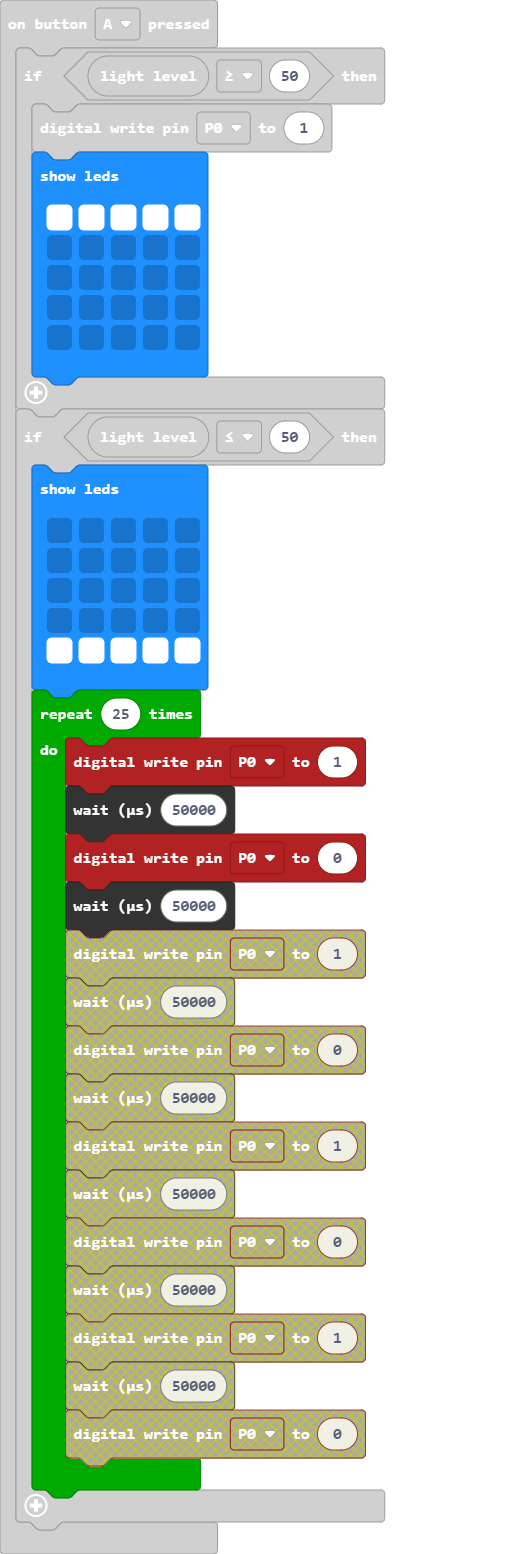
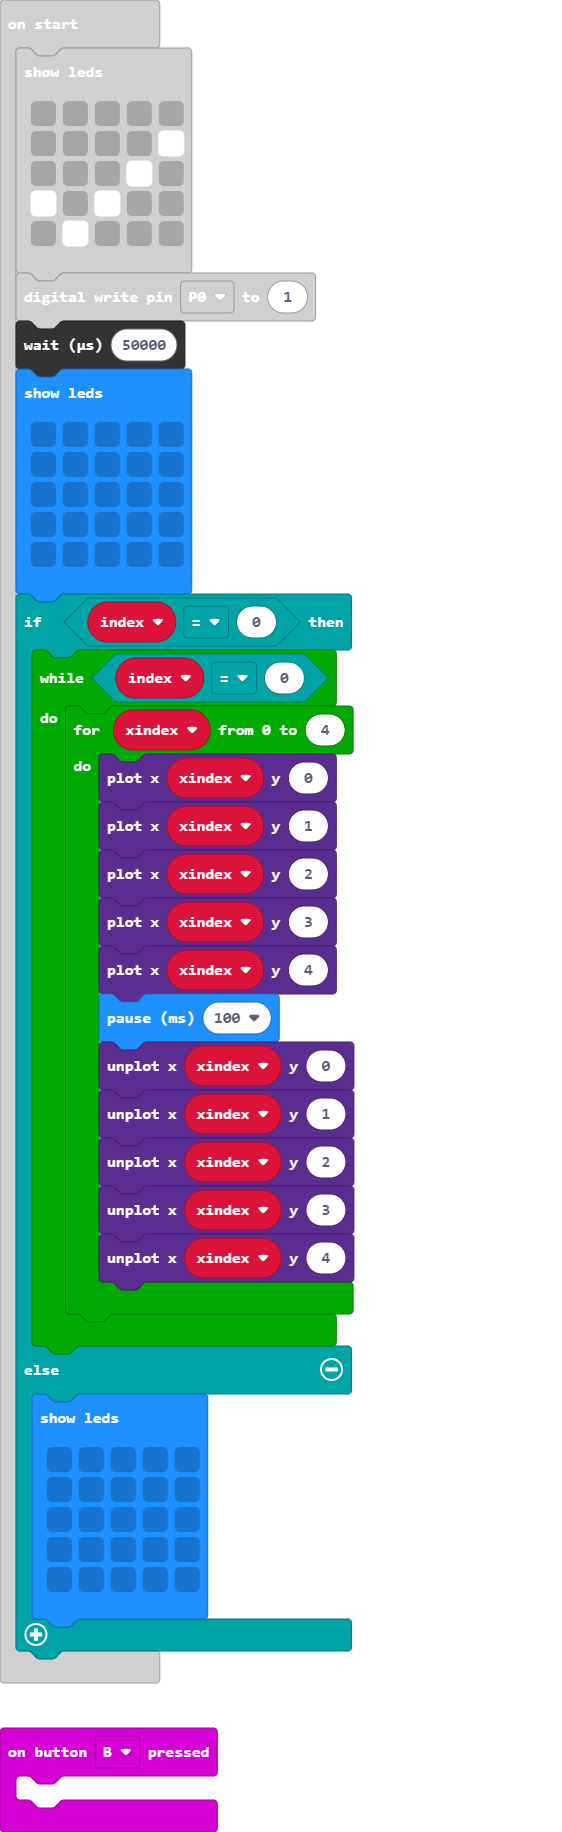
Update main.blocks, main.ts

diff --git a/main.ts b/main.ts
@@ -17,7 +17,7 @@ input.onButtonPressed(Button.A, function () {
             . . . . .
             # # # # #
             `)
-        for (let index = 0; index < 25; index++) {
+        for (let index2 = 0; index2 < 25; index2++) {
             pins.digitalWritePin(DigitalPin.P0, 1)
             control.waitMicros(50000)
             pins.digitalWritePin(DigitalPin.P0, 0)
@@ -25,6 +25,10 @@ input.onButtonPressed(Button.A, function () {
         }
     }
 })
+input.onButtonPressed(Button.B, function () {
+	
+})
+let index = 0
 basic.showLeds(`
     . . . . .
     . . . . #
@@ -33,6 +37,42 @@ basic.showLeds(`
     . # . . .
     `)
 pins.digitalWritePin(DigitalPin.P0, 1)
+control.waitMicros(50000)
+basic.showLeds(`
+    . . . . .
+    . . . . .
+    . . . . .
+    . . . . .
+    . . . . .
+    `)
+if (index == 0) {
+    while (index == 0) {
+        for (let xindex = 0; xindex <= 4; xindex++) {
+            led.plot(xindex, 0)
+            led.plot(xindex, 1)
+            led.plot(xindex, 2)
+            led.plot(xindex, 3)
+            led.plot(xindex, 4)
+            basic.pause(100)
+            led.unplot(xindex, 0)
+            led.unplot(xindex, 1)
+            led.unplot(xindex, 2)
+            led.unplot(xindex, 3)
+            led.unplot(xindex, 4)
+        }
+    }
+} else {
+    basic.showLeds(`
+        . . . . .
+        . . . . .
+        . . . . .
+        . . . . .
+        . . . . .
+        `)
+}
+basic.forever(function () {
+	
+})
 basic.forever(function () {
 	
 })
